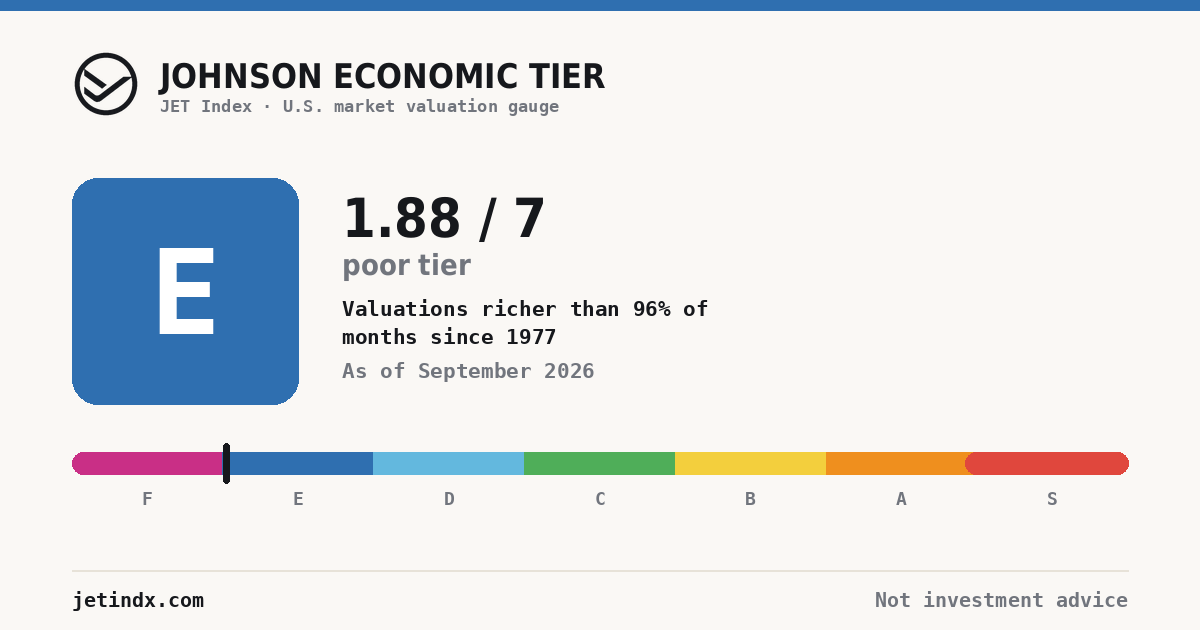
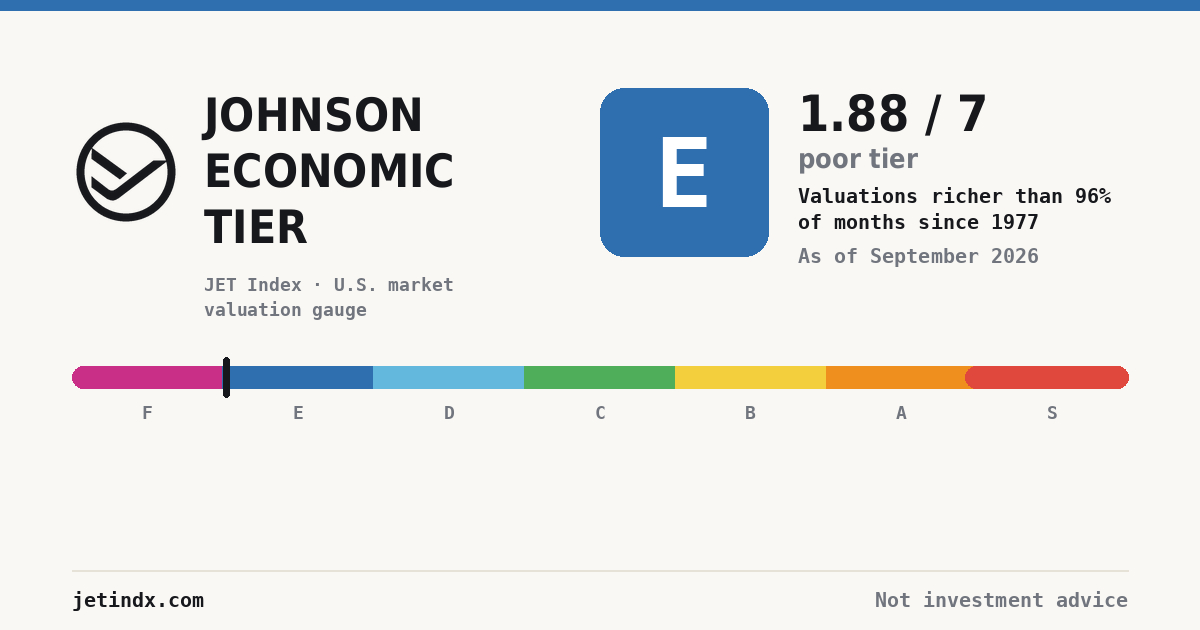
Rework the OG card into a two-column layout: brand left, reading right
Per feedback on the previous stacked version: put the logo and the
title (forced onto its 3-line form, same as the mobile header) on the
left, the tier chip/score/context on the right, both sharing one
vertical band, with the full-width color bar running beneath both
columns instead of under just the reading.

Added a small greedy word-wrap helper so the tagline and the "richer
than X% of months" detail line reflow correctly at the narrower
column widths this layout leaves them.

Claude-Session: https://claude.ai/code/session_01FmPXgTPm2Pt4poDVRj3LBB

diff --git a/scripts/generate_og_image.py b/scripts/generate_og_image.py
@@ -104,6 +104,23 @@ def render_brandmark(mark, size, color, view_box=1147):
     return img.resize((size, size), Image.LANCZOS)
 
 
+def wrap_text(d, text, font, max_width):
+    """Greedy word-wrap; returns a list of lines that each fit max_width."""
+    words = text.split(' ')
+    lines = []
+    cur = ''
+    for w in words:
+        trial = f'{cur} {w}'.strip()
+        if d.textlength(trial, font=font) <= max_width or not cur:
+            cur = trial
+        else:
+            lines.append(cur)
+            cur = w
+    if cur:
+        lines.append(cur)
+    return lines
+
+
 def main():
     with open(INDEX_HTML, "r", encoding="utf-8") as f:
         html = f.read()
@@ -142,49 +159,75 @@ def main():
     # Top accent strip in the current tier's color
     d.rectangle([0, 0, W, 10], fill=fill)
 
-    f_wordmark = ImageFont.truetype(f"{FONT_DIR}/DejaVuSansCondensed-Bold.ttf", 34)
-    f_tagline = ImageFont.truetype(f"{FONT_DIR}/DejaVuSansMono-Bold.ttf", 17)
-    f_chip = ImageFont.truetype(f"{FONT_DIR}/DejaVuSansMono-Bold.ttf", 118)
-    f_score = ImageFont.truetype(f"{FONT_DIR}/DejaVuSansCondensed-Bold.ttf", 54)
-    f_tier_word = ImageFont.truetype(f"{FONT_DIR}/DejaVuSansCondensed-Bold.ttf", 29)
-    f_detail = ImageFont.truetype(f"{FONT_DIR}/DejaVuSansMono-Bold.ttf", 21)
+    f_wordmark = ImageFont.truetype(f"{FONT_DIR}/DejaVuSansCondensed-Bold.ttf", 46)
+    f_tagline = ImageFont.truetype(f"{FONT_DIR}/DejaVuSansMono-Bold.ttf", 18)
+    f_chip = ImageFont.truetype(f"{FONT_DIR}/DejaVuSansMono-Bold.ttf", 96)
+    f_score = ImageFont.truetype(f"{FONT_DIR}/DejaVuSansCondensed-Bold.ttf", 50)
+    f_tier_word = ImageFont.truetype(f"{FONT_DIR}/DejaVuSansCondensed-Bold.ttf", 27)
+    f_detail = ImageFont.truetype(f"{FONT_DIR}/DejaVuSansMono-Bold.ttf", 20)
     f_scale = ImageFont.truetype(f"{FONT_DIR}/DejaVuSansMono-Bold.ttf", 18)
     f_url = ImageFont.truetype(f"{FONT_DIR}/DejaVuSansMono-Bold.ttf", 20)
 
-    # --- Header: real brandmark logo + wordmark, same pairing as the site ---
-    logo_size = 68
-    logo_x, logo_y = 72, 50
+    # Two columns, sharing one vertical band: brand block on the left,
+    # the current reading on the right. The color bar spans beneath both.
+    col_top = 88
+    left_x, left_w = 72, 470
+    right_x, right_w = 600, W - 72 - 600
+
+    # --- Left column: logo + the title forced onto 3 lines, then tagline ---
+    logo_size = 108
+    title_lines = ["JOHNSON", "ECONOMIC", "TIER"]
+    title_line_h = 56
+    title_block_h = title_line_h * len(title_lines)
+    title_x = left_x + logo_size + 24
+
+    logo_y = col_top + max(0, (title_block_h - logo_size) / 2)
     logo_img = render_brandmark(brandmark, logo_size, INK)
-    img.paste(logo_img, (logo_x, logo_y), logo_img)
+    img.paste(logo_img, (left_x, round(logo_y)), logo_img)
 
-    word_x = logo_x + logo_size + 20
-    d.text((word_x, logo_y + 6), "JOHNSON ECONOMIC TIER", font=f_wordmark, fill=INK)
-    d.text((word_x, logo_y + 46), "JET Index · U.S. market valuation gauge", font=f_tagline, fill=SUB)
+    for i, line in enumerate(title_lines):
+        d.text((title_x, col_top + i * title_line_h), line, font=f_wordmark, fill=INK)
 
-    # --- Tier chip + score, mid-card ---
-    chip_x, chip_y, chip_w, chip_h = 72, 178, 226, 226
-    d.rounded_rectangle([chip_x, chip_y, chip_x + chip_w, chip_y + chip_h], radius=26, fill=fill)
+    tagline_y = col_top + title_block_h + 18
+    tagline_lines = wrap_text(d, "JET Index · U.S. market valuation gauge", f_tagline, left_w - logo_size - 24)
+    for i, line in enumerate(tagline_lines):
+        d.text((title_x, tagline_y + i * 25), line, font=f_tagline, fill=SUB)
+
+    left_bottom = tagline_y + len(tagline_lines) * 25
+
+    # --- Right column: tier chip + score + context, vertically centered
+    # against the left column's height ---
+    chip_size = 168
+    right_content_h = max(chip_size, 118)
+    chip_y = col_top + max(0, (title_block_h - right_content_h) / 2)
+    chip_x = right_x
+    d.rounded_rectangle([chip_x, chip_y, chip_x + chip_size, chip_y + chip_size], radius=24, fill=fill)
     bbox = d.textbbox((0, 0), tier, font=f_chip)
     tw, th = bbox[2] - bbox[0], bbox[3] - bbox[1]
     d.text(
-        (chip_x + chip_w / 2 - tw / 2 - bbox[0], chip_y + chip_h / 2 - th / 2 - bbox[1]),
+        (chip_x + chip_size / 2 - tw / 2 - bbox[0], chip_y + chip_size / 2 - th / 2 - bbox[1]),
         tier, font=f_chip, fill=text_on_fill,
     )
 
-    tx = chip_x + chip_w + 44
-    d.text((tx, chip_y + 8), f"{score:.2f} / 7", font=f_score, fill=INK)
-    d.text((tx, chip_y + 70), f"{TIER_WORD[tier]} tier", font=f_tier_word, fill=SUB)
+    tx = chip_x + chip_size + 30
+    t_max_w = right_x + right_w - tx
+    d.text((tx, chip_y - 4), f"{score:.2f} / 7", font=f_score, fill=INK)
+    d.text((tx, chip_y + 54), f"{TIER_WORD[tier]} tier", font=f_tier_word, fill=SUB)
 
-    detail_y = chip_y + 118
+    detail_y = chip_y + 96
     if pe_pct is not None:
-        d.text((tx, detail_y), f"Valuations richer than {pe_pct}% of", font=f_detail, fill=INK)
-        d.text((tx, detail_y + 28), "months since 1977", font=f_detail, fill=INK)
-        detail_y += 62
+        for line in wrap_text(d, f"Valuations richer than {pe_pct}% of months since 1977", f_detail, t_max_w):
+            d.text((tx, detail_y), line, font=f_detail, fill=INK)
+            detail_y += 26
+        detail_y += 8
     d.text((tx, detail_y), f"As of {as_of}", font=f_detail, fill=SUB)
 
-    # --- Full-width tier color bar, mirroring the site's meter ---
+    right_bottom = max(detail_y + 26, chip_y + chip_size)
+
+    # --- Full-width tier color bar, mirroring the site's meter, below both columns ---
     bar_x, bar_w = 72, W - 144
-    bar_y, bar_h = 452, 22
+    bar_y = max(left_bottom, right_bottom) + 42
+    bar_h = 22
     n = len(ORDER)
     seg_w = bar_w / n
     for i, letter in enumerate(ORDER):
